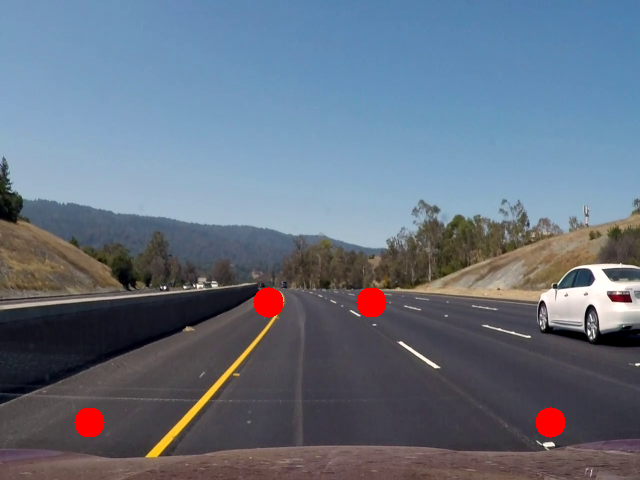
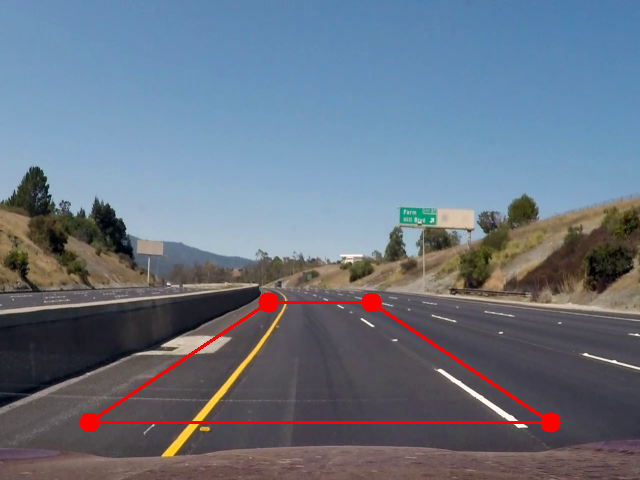
added lines to source points

Changed region(s): [[0.0, 0.3125, 1.0, 0.9688], [0.9062, 0.9375, 1.0, 1.0], [0.6875, 0.6562, 0.7188, 0.6875]]

diff --git a/utility.py b/utility.py
@@ -116,7 +116,17 @@ def display_points(frame, points):
     # Iterate through points and put circle
     for x in range(0,4):
         # cv2.circle(image, center_coordinates, radius, color, thickness)
-        cv2.circle(frame, (int(points[x][0]),int(points[x][1])), 15, (0,0,255), cv2.FILLED)
+        cv2.circle(frame, (int(points[x][0]),int(points[x][1])), 10, (0,0,255), cv2.FILLED)
+
+        # cv2.line(frame, pt1=(int(points[x][0]), int(points[x][1])), pt2=(int(points[x][0]), int(points[x][1])), color=(0,0,255), thickness=2)
+
+
+    # Lines to form a quadrangle
+    cv2.line(frame, pt1=(int(points[0][0]), int(points[0][1])), pt2=(int(points[1][0]), int(points[1][1])), color=(0,0,255), thickness=2)
+    cv2.line(frame, pt1=(int(points[0][0]), int(points[0][1])), pt2=(int(points[2][0]), int(points[2][1])), color=(0,0,255), thickness=2)
+    cv2.line(frame, pt1=(int(points[2][0]), int(points[2][1])), pt2=(int(points[3][0]), int(points[3][1])), color=(0,0,255), thickness=2)
+    cv2.line(frame, pt1=(int(points[3][0]), int(points[3][1])), pt2=(int(points[1][0]), int(points[1][1])), color=(0,0,255), thickness=2)
+
     return frame
 
 # Prespective Wrapping (Birdseye view)

diff --git a/define_constants.py b/define_constants.py
@@ -3,7 +3,7 @@ import cv2
 # VISUALIZING
 is_demo = True
 is_show_histogram_plot = False
-is_only_compare_filters = True
+is_only_compare_filters = False
 
 # CAMERA AND VIDEO SETUP
 is_camera_feed = False
